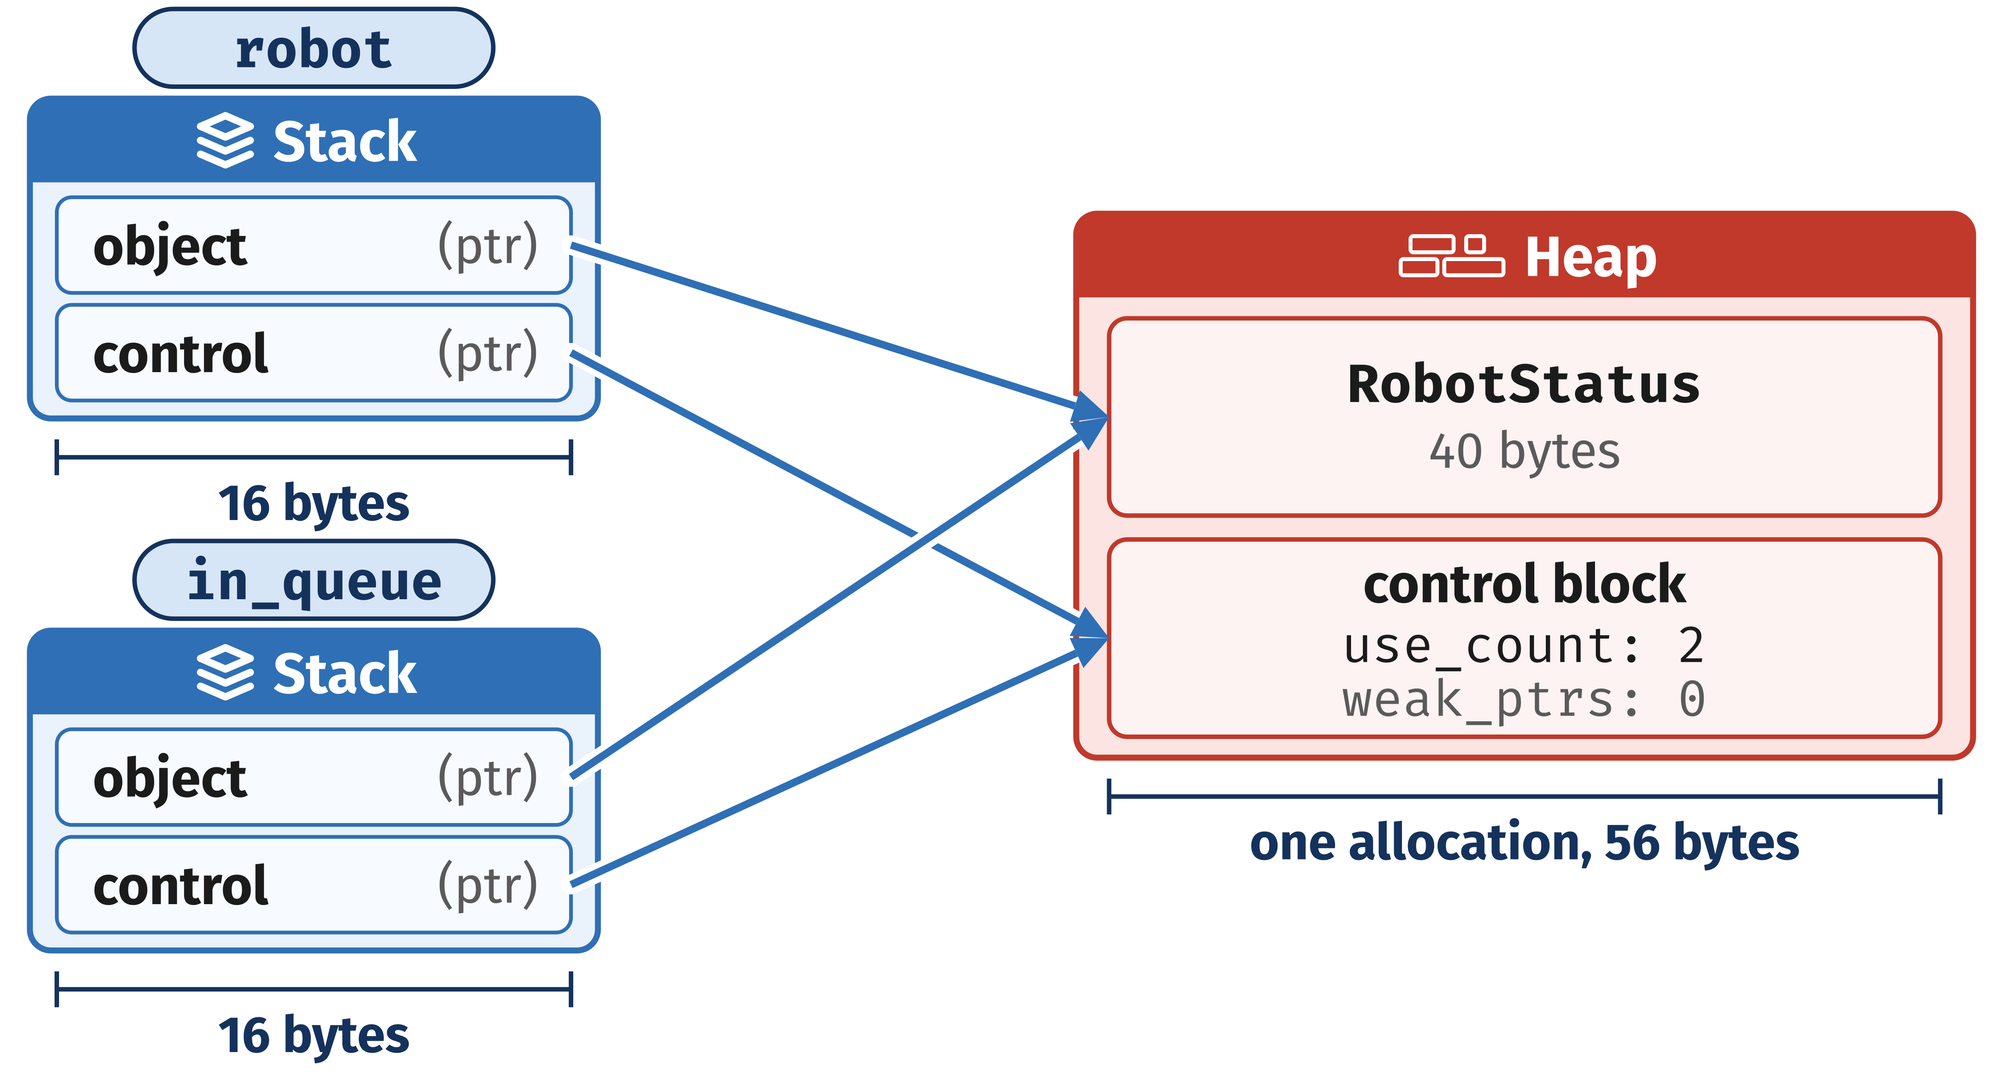
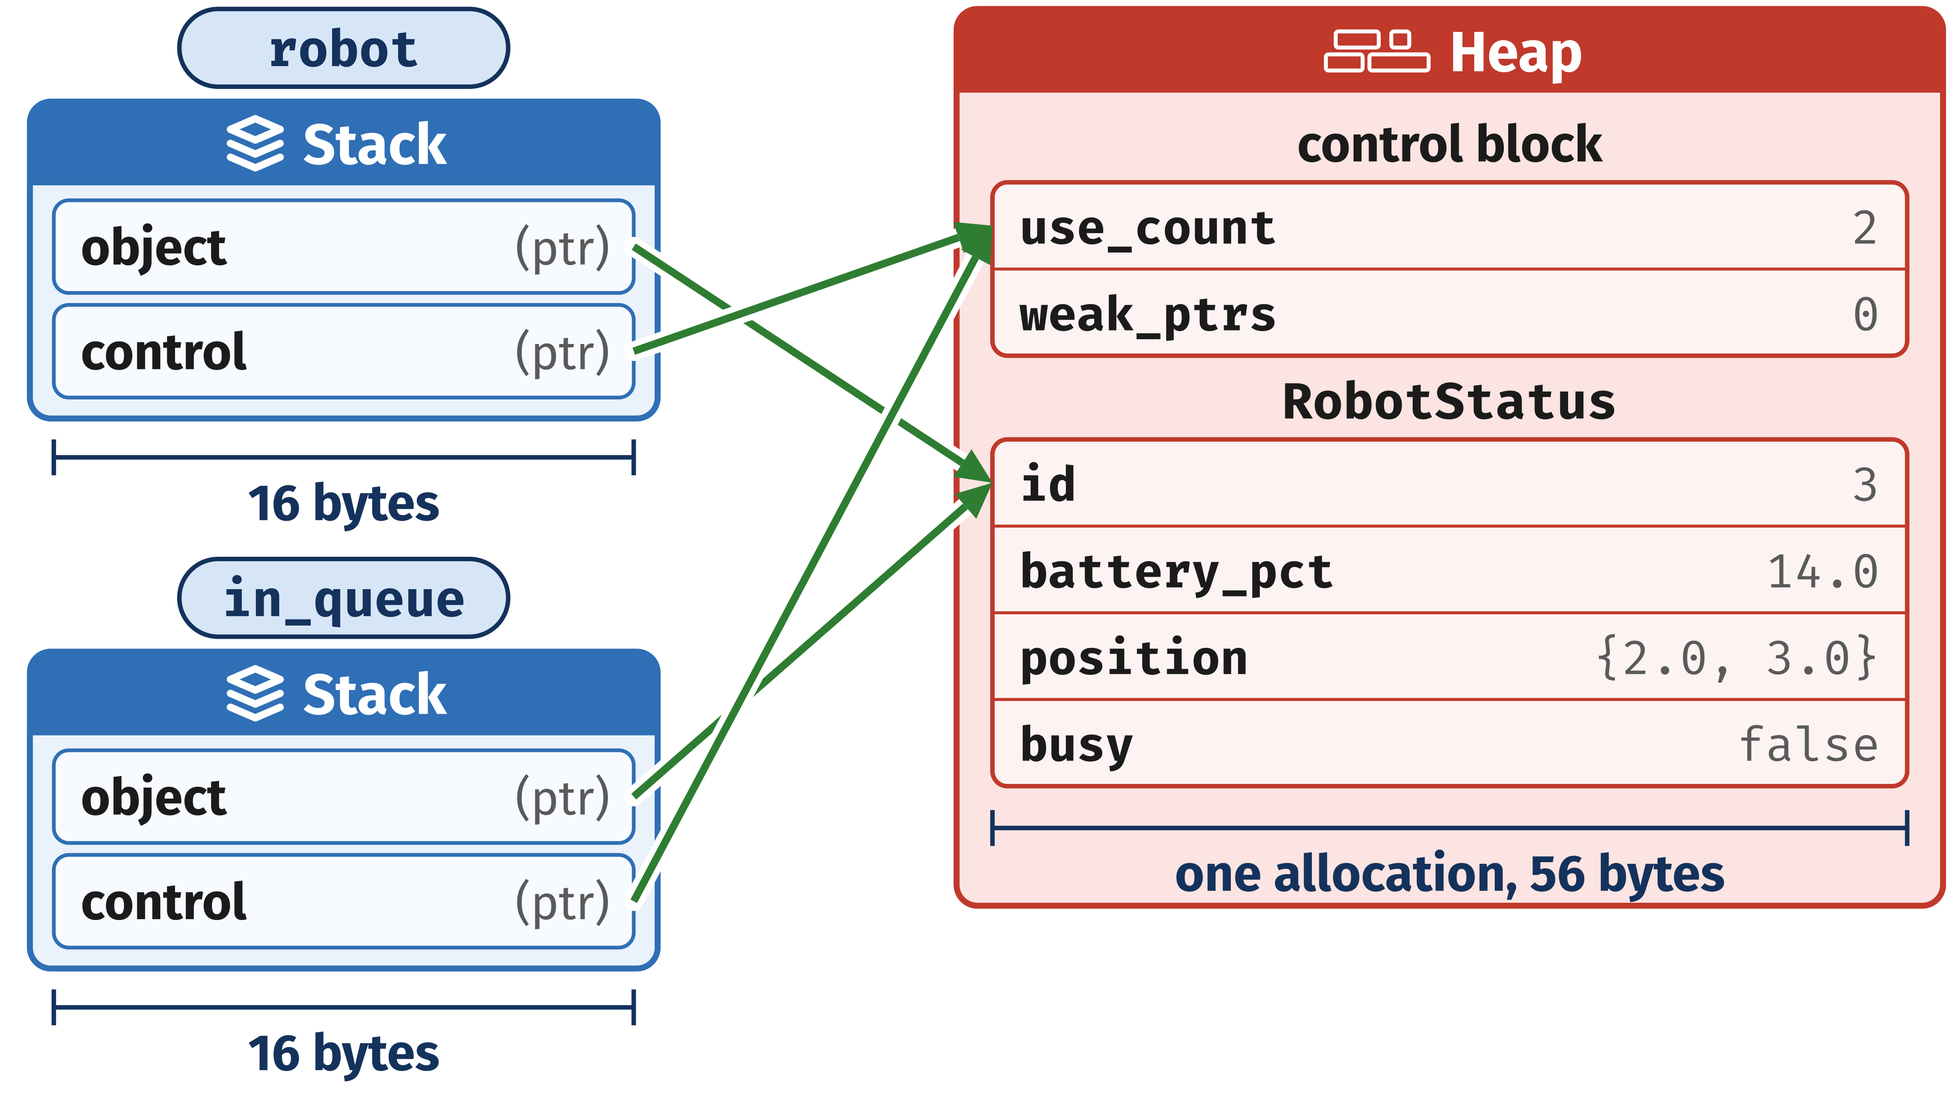
L7: shared_ptr figures with the full objects, as in the deck
The Control Block, the five steps of letting go and the two steps of the
cycle show each allocation's control block and the whole object; "robot
N" becomes the RobotStatus object with id N where the text is about
memory or ownership; slide numbers follow the deck.

diff --git a/docs/source/lectures/lecture7/l7_lecture.rst b/docs/source/lectures/lecture7/l7_lecture.rst
@@ -87,7 +87,7 @@ Code for This Lecture
 
    Code that does not compile is in the programs, commented out: uncomment it to get the slide's error.
 
-   A slide whose code leaks or has undefined behavior, such as slide 80, runs only when you ask for it by number: ``702run week7_playground 80``. A full run skips it.
+   A slide whose code leaks or has undefined behavior, such as slide 86, runs only when you ask for it by number: ``702run week7_playground 86``. A full run skips it.
 
 .. note::
 
@@ -1069,7 +1069,7 @@ Moving Ownership
 
    robot == nullptr: true, other.get() == where: true, other->id: 3
 
-- Line 2: ``robot.get()`` returns the address of the ``RobotStatus`` object that ``robot`` owns, as a plain ``RobotStatus*``. The owner does not change: ``where`` only points at the object.
+- Line 2: ``robot.get()`` returns a plain ``RobotStatus*`` to the heap resource ``robot`` owns, the ``RobotStatus`` object. The owner does not change: ``where`` only points at the object.
 - Line 3, the move constructor of `Move Semantics`_: ``other`` takes the pointer, and ``robot`` is left empty. ``other.get() == where``: the ``RobotStatus`` object did not move.
 - There is still exactly one owner, at every moment.
 - Unlike a moved-from ``std::vector``, a moved-from ``std::unique_ptr`` is guaranteed to be empty.
@@ -1318,7 +1318,7 @@ Robot 3 is down to 14 % (chosen for this example). It joins the charging queue, 
 
 1. **A second** ``std::unique_ptr``: does not compile. One owner only (`One Owner Only`_).
 2. **A copy of the robot**: now there are two robots. Charging one leaves the other at 14 %.
-3. **A** ``RobotStatus*`` **from** ``get()``: the queue does not own it. If the fleet removes robot 3, the queue points at freed memory (`Three Ways to Get It Wrong`_).
+3. **A** ``RobotStatus*`` **from** ``get()``: the queue does not own it. If the fleet deletes the ``RobotStatus`` object with id 3, the queue points at freed memory (`Three Ways to Get It Wrong`_).
 
 .. code-block:: cpp
 
@@ -1331,7 +1331,7 @@ The ``fleet`` here is the one from `A Fleet of Owners`_.
 
 .. note::
 
-   Both lists must own robot 3, and it must be deleted when the last of them lets go.
+   Both lists must own the ``RobotStatus`` object with id 3, and it must be deleted when the last of them lets go.
 
 .. _l7-shared-creating-one:
 
@@ -1364,13 +1364,14 @@ The Control Block
 """""""""""""""""
 
 .. figure:: /_static/images/l7/shared_ptr_memory.png
-   :alt: On the left, two blue boxes, one above the other, each with a stack icon and the word Stack, under name tags reading robot and in_queue. Each holds two fields, object and control, each marked ptr, and a measuring line under each box reads 16 bytes. On the right, one red box with a heap icon and the word Heap holds two blocks: a RobotStatus labeled 40 bytes, and below it a control block reading use_count: 2 and weak_ptrs: 0. A measuring line under it reads one allocation, 56 bytes. From each Stack box, a blue arrow runs from the object field to the left edge of the RobotStatus block, and another from the control field to the left edge of the control block.
+   :alt: On the left, two blue Stack boxes under name tags robot and in_queue, each holding two fields, object and control, each marked (ptr), with a measuring line of 16 bytes under each box. On the right, a red Heap box holds one allocation, with a measuring line reading one allocation, 56 bytes: at the top a control block with use_count 2 and weak_ptrs 0, then right below it the RobotStatus object with id 3, battery_pct 14.0, position {2.0, 3.0} and busy false. Green arrows run from each object field to the first row of the RobotStatus object, id, and from each control field to the first row of the control block.
+          "On the left, two blue Stack boxes under name tags robot and in_queue, each holding two fields, object and control, each marked (ptr), with a measuring line of 16 bytes under each box. On the right, a red Heap box holds one allocation, with a measuring line reading one allocation, 56 bytes: at the top a control block with use_count 2 and weak_ptrs 0, then right below it the RobotStatus object with id 3, battery_pct 14.0, position {2.0, 3.0} and busy false. Green arrows run from each object field to the first row of the RobotStatus object, id, and from each control field to the first row of the control block.
    :align: center
    :width: 100%
 
-   Two ``std::shared_ptr``\ s to one robot. Both point at the robot and at the control block that ``std::make_shared`` put in the same allocation.
+   Two ``std::shared_ptr``\ s, one allocation: the control block first, then the ``RobotStatus`` object.
 
-- A **control block** is the block a ``std::shared_ptr`` keeps beside its object: it holds the count of owners. A ``std::shared_ptr`` is two pointers, 16 bytes: to the robot and to its control block.
+- A **control block** is the block a ``std::shared_ptr`` keeps beside its object: it holds the count of owners. A ``std::shared_ptr`` is two pointers, 16 bytes: to the ``RobotStatus`` object and to its control block. ``std::make_shared`` puts both in one allocation, the control block first (libstdc++, measured).
 - ``std::make_shared``: one allocation of 56 bytes for both, measured. With ``new``: two, 40 and 24 bytes.
 - A copy adds 1 to the count; destroying a ``std::shared_ptr`` subtracts 1.
 
@@ -1421,17 +1422,65 @@ Three Ways to Let Go
 
 - An owner lets go when its scope ends (2, 3c), when it is assigned another pointer (3a), or when it calls ``reset()`` (3b). Each one subtracts 1 from the count.
 - In all three, ``robot`` is the last owner, so its ``RobotStatus`` object is deleted. C++20 (20.11.3.2 to 20.11.3.4): ``=`` and ``reset()`` swap with a temporary that is then destroyed, and destroying the last owner deletes the object.
-- Robot 4's id is chosen; its other members take their defaults. Run it: ``702run week7_playground 71``.
+- In 3a, id 4 is chosen; the other members take their defaults. Run it: ``702run week7_playground 71``.
 
-.. figure:: /_static/images/l7/shared_ptr_let_go.png
-   :alt: Five numbered states, each a blue Stack box beside a red Heap box. On the left, state 1: the Stack holds robot and in_queue, and an arrow from each points at robot 3 on the Heap, use_count: 2. Below it, state 2: in_queue is gray and dashed, gone, and only robot points at robot 3, use_count: 1. A dashed line separates three states on the right, 3a, 3b and 3c. In 3a, robot points at a new robot 4, use_count: 1, and robot 3 is gray, dashed and marked deleted. In 3b, robot holds null and robot 3 is deleted. In 3c, robot is gray and dashed, gone, and robot 3 is deleted.
+Step 1: Two Owners
+""""""""""""""""""
+
+.. figure:: /_static/images/l7/shared_ptr_let_go_1.png
+   :alt: On the left, two blue Stack boxes under name tags robot and in_queue, each holding two fields, object and control, each marked (ptr). On the right, a red Heap box holds one allocation, measured as 56 bytes: at the top a control block with use_count 2 and weak_ptrs 0, then right below it a RobotStatus object with id 3, battery_pct 14.0, position {2.0, 3.0} and busy false. Green arrows run from each object field to the first row of the RobotStatus object, id, and from each control field to the first row of the control block.
+     "On the left, two blue Stack boxes under name tags robot and in_queue, each holding two fields, object and control, each marked (ptr). On the right, a red Heap box holds one allocation, measured as 56 bytes: at the top a control block with use_count 2 and weak_ptrs 0, then right below it a RobotStatus object with id 3, battery_pct 14.0, position {2.0, 3.0} and busy false. Green arrows run from each object field to the first row of the RobotStatus object, id, and from each control field to the first row of the control block.
    :align: center
    :width: 100%
 
-   The three ways to let go, in memory. Gray and dashed: gone.
+- After line 1 of `Three Ways to Let Go`_: ``in_queue`` copies ``robot``. Both hold the same two pointers, so ``use_count`` is 2.
+- Each green arrow is one pointer of a ``std::shared_ptr``: ``object`` ends at the object's first member, ``control`` at the control block.
 
-- 1: ``in_queue`` copies ``robot``: two owners. 2: ``in_queue``'s scope ends: one owner left.
-- 3a, 3b and 3c are three separate runs, each from 2.
+Step 2: One Owner
+"""""""""""""""""
+
+.. figure:: /_static/images/l7/shared_ptr_let_go_2.png
+   :alt: On the left, a blue Stack box under the name tag robot holds two fields, object and control, each marked (ptr). Below it, in_queue is gray and dashed, marked scope ended, with no arrows. On the right, a red Heap box holds one allocation, measured as 56 bytes: a control block with use_count 1 and weak_ptrs 0, then the RobotStatus object with id 3, battery_pct 14.0, position {2.0, 3.0} and busy false. Green arrows run from robot's object field to the object's first row, id, and from its control field to the control block's first row.
+     "On the left, a blue Stack box under the name tag robot holds two fields, object and control, each marked (ptr). Below it, in_queue is gray and dashed, marked scope ended, with no arrows. On the right, a red Heap box holds one allocation, measured as 56 bytes: a control block with use_count 1 and weak_ptrs 0, then the RobotStatus object with id 3, battery_pct 14.0, position {2.0, 3.0} and busy false. Green arrows run from robot's object field to the object's first row, id, and from its control field to the control block's first row.
+   :align: center
+   :width: 100%
+
+- Line 2: ``in_queue``'s scope ends. Its destructor subtracts 1, so ``use_count`` is 1.
+- ``robot`` still owns the ``RobotStatus`` object, so nothing is freed.
+
+Step 3a: A New Object
+"""""""""""""""""""""
+
+.. figure:: /_static/images/l7/shared_ptr_let_go_3.png
+   :alt: On the left, a blue Stack box under the name tag robot holds two fields, object and control, each marked (ptr). Below it, in_queue is gray and dashed, marked scope ended. On the right, a red Heap box holds at the top a gray dashed block marked freed, 56 bytes: the first control block and object. Below it, a new allocation, measured as 56 bytes: a control block with use_count 1 and weak_ptrs 0, then a RobotStatus object with id 4, battery_pct 100.0, position {0.0, 0.0} and busy false. Green arrows run from robot's object field to the new object's first row, id, and from its control field to the new control block's first row.
+   :align: center
+   :width: 100%
+
+- 3a, 3b and 3c are separate runs, each from step 2.
+- 3a: ``std::make_shared<RobotStatus>(4)`` makes a second allocation. ``robot`` lets go of the first: its count drops to 0, so its object is destroyed and its 56 bytes freed.
+- The new object has id 4; its other members take their defaults.
+
+Step 3b: reset()
+""""""""""""""""
+
+.. figure:: /_static/images/l7/shared_ptr_let_go_4.png
+   :alt: On the left, a blue Stack box under the name tag robot holds two fields, object and control, each marked nullptr, with no arrows. Below it, in_queue is gray and dashed, marked scope ended. On the right, a red Heap box holds one gray dashed block marked freed, 56 bytes: the control block and object.
+   :align: center
+   :width: 100%
+
+- 3b: ``robot.reset()`` leaves both of ``robot``'s pointers ``nullptr``.
+- ``robot`` was the last owner, so the count drops to 0: the object is destroyed and the allocation freed.
+
+Step 3c: The Scope Ends
+"""""""""""""""""""""""
+
+.. figure:: /_static/images/l7/shared_ptr_let_go_5.png
+   :alt: On the left, robot and in_queue are both gray and dashed, marked scope ended, with no arrows. On the right, a red Heap box holds one gray dashed block marked freed, 56 bytes: the control block and object.
+   :align: center
+   :width: 100%
+
+- 3c: ``robot``'s scope ends, and its destructor runs.
+- ``robot`` was the last owner, so the count drops to 0: the object is destroyed and the allocation freed.
 
 Deletion by the Last Owner
 """"""""""""""""""""""""""
@@ -1441,8 +1490,8 @@ Deletion by the Last Owner
    fleet.push_back(std::make_shared<RobotStatus>(
        3, 14.0, Position{2.0, 3.0}, false));
    charging_queue.push_back(fleet[0]);
-   fleet.clear();           // robot 3 leaves the fleet, still in the queue
-   charging_queue.clear();  // the last owner: robot 3 is deleted here
+   fleet.clear();           // the fleet lets go; the queue still owns it
+   charging_queue.clear();  // the last owner deletes the RobotStatus
 
 .. code-block:: text
 
@@ -1450,8 +1499,8 @@ Deletion by the Last Owner
    after fleet.clear(): 1, robot 3 still there
    after charging_queue.clear(): no owner left
 
-- The queue keeps robot 3 alive after the fleet lets go. That is what the raw pointer of `A Robot in Two Lists`_ could not do.
-- Neither list deletes the robot itself. Whichever lets go last does, and nothing leaks: ``702run week7_playground 73`` ends with no LeakSanitizer report.
+- The queue keeps the ``RobotStatus`` object alive after the fleet lets go. That is what the raw pointer of `A Robot in Two Lists`_ could not do.
+- Neither list deletes the ``RobotStatus`` object itself. Whichever lets go last does, and nothing leaks: ``702run week7_playground 77`` ends with no LeakSanitizer report.
 
 .. _l7-shared-borrow:
 
@@ -1568,15 +1617,28 @@ A Cycle
    a->partner = b;  // a owns b
    b->partner = a;  // b owns a
 
-.. figure:: /_static/images/l7/cycle.png
-   :alt: Two panels separated by a thin line, tagged 1 and 2. In each, two red boxes with a heap icon, robot 1 and robot 2, side by side. Each box is one allocation: at the top a dashed part labeled control block that holds use_count, then the Robot object, a solid outline around two rows, status and partner. A green arrow runs from robot 1's partner row across the gap and into the left edge of robot 2's object, at its status row; another runs from robot 2's partner row down, under both boxes, and up into the bottom edge of robot 1's object. Panel 1: two small blue boxes with a stack icon and the word Stack, named a and b, above the robots. A green arrow from a goes around the left side of robot 1 into the left edge of its object, and one from b goes around the right side of robot 2 into the right edge of its object. Both control blocks read use_count: 2. Panel 2: no stack boxes; both control blocks read use_count: 1.
+- ``a->partner = b``: the ``Robot`` that ``a`` owns becomes an owner of the one ``b`` owns. ``b->partner = a`` does the reverse.
+
+Step 1: Two Owners Each
+"""""""""""""""""""""""
+
+.. figure:: /_static/images/l7/cycle_1.png
+   :alt: Two blue Stack boxes at the top, under name tags a and b, each holding two fields, object and control, each marked (ptr). Below, one red Heap box holds two allocations side by side, each measured as 72 bytes: a control block with use_count 2 and weak_ptrs 0, then a Robot object with rows status.id, status.battery_pct, status.position, status.busy, partner: object and partner: control. The left Robot holds 1, 82.5, {0.0, 0.0}, false; the right one 2, 35.0, {0.0, 0.0}, false. Green arrows run from a's fields to the left allocation, entering from the left: object to the Robot's first row, control to the control block's first row. Green arrows run from b's fields to the right allocation, entering from the right. The left Robot's partner rows send green arrows to the right allocation's Robot first row and control block, and the right Robot's partner rows send green arrows to the left allocation's, so the arrows cross between the two allocations.
    :align: center
    :width: 100%
 
-   Two robots that own each other. **1**: while ``a`` and ``b`` exist, each robot has two owners. **2**: ``a`` and ``b`` are gone, and each count stays at 1.
+- While ``a`` and ``b`` exist, each ``Robot`` has two owners: a variable on the stack and the other ``Robot``'s ``partner``. Each count is 2.
 
-- **1**: while ``a`` and ``b`` exist, each robot has two owners.
-- **2**: ``a`` and ``b`` are gone. Each count is 1, never 0: each robot keeps the other alive, and nothing outside can reach either.
+Step 2: Neither Is Deleted
+""""""""""""""""""""""""""
+
+.. figure:: /_static/images/l7/cycle_2.png
+   :alt: At the top, a and b are gray and dashed, marked scope ended, with no arrows. Below, one red Heap box holds two allocations side by side, each measured as 72 bytes: a control block with use_count 1 and weak_ptrs 0, then a Robot object with rows status.id, status.battery_pct, status.position, status.busy, partner: object and partner: control. The left Robot holds 1, 82.5, {0.0, 0.0}, false; the right one 2, 35.0, {0.0, 0.0}, false. The left Robot's partner rows send green arrows to the right allocation's Robot first row and control block, and the right Robot's partner rows send green arrows to the left allocation's, so each allocation is still owned by the other.
+   :align: center
+   :width: 100%
+
+- ``a`` and ``b`` are destroyed when their scope ends: each count drops to 1, never 0.
+- Each ``Robot`` keeps the other alive, so 2 allocations of 72 bytes leak (`The Cycle, Measured`_).
 
 The Cycle, Measured
 """""""""""""""""""
@@ -1597,7 +1659,7 @@ The Cycle, Measured
 
    SUMMARY: AddressSanitizer: 144 byte(s) leaked in 2 allocation(s).
 
-- ``702run week7_playground 80``. Both robots leak, one allocation each: lines 76 and 77 are the two ``std::make_shared`` calls.
+- ``702run week7_playground 86``. Both ``Robot`` objects leak, one allocation each: lines 76 and 77 are the two ``std::make_shared`` calls.
 - 72 bytes each: a ``Robot`` (40 for the status, 16 for the ``std::shared_ptr``) and its 16-byte control block, in one ``std::make_shared`` allocation.
 - An **indirect leak** is LeakSanitizer's name for leaked memory reachable only from other leaked memory. Both leaks here are indirect: each robot is reachable only from the other.
 
@@ -1618,7 +1680,7 @@ Breaking It
    a.use_count(): 1, b.use_count(): 1
 
 - A ``std::weak_ptr`` made from a ``std::shared_ptr`` does not add to the count.
-- When ``a`` and ``b`` go out of scope, both counts reach 0 and both robots are deleted. ``702run week7_playground 81``: no LeakSanitizer report.
+- When ``a`` and ``b`` go out of scope, both counts reach 0 and both ``Robot`` objects are deleted. ``702run week7_playground 87``: no LeakSanitizer report.
 
 .. note::
 
@@ -1644,7 +1706,7 @@ Breaking It
 
 - A ``std::weak_ptr`` has no ``->`` and no ``*``. ``lock()`` returns an owning ``std::shared_ptr``, or an empty one if the object is gone.
 - While ``robot`` exists, it is one more owner, so the ``RobotStatus`` object cannot be deleted in the middle of ``show``.
-- ``702run week7_playground 82``: ``robot 3: 14 %``, then, after the fleet lets go, ``the robot is gone``.
+- ``702run week7_playground 88``: ``robot 3: 14 %``, then, after the fleet lets go, ``the robot is gone``.
 
 See `A Dashboard of weak_ptr`_ under Further Reading.
 
@@ -1685,7 +1747,7 @@ Exercise 5: Use Counts
    b.reset();                                // 6
 
 - After each numbered line: how many ``std::shared_ptr``\ s own the robot, and is ``watch`` expired?
-- Check: ``702run week7_playground 84``.
+- Check: ``702run week7_playground 90``.
 
 Choosing a Pointer
 ------------------
@@ -1741,8 +1803,8 @@ Back to the Fleet
 
    The fleet with its smart pointers. **Filled diamond**: the only owner. **Open diamond**: one of several owners. **Arrow, no diamond**: looks without owning.
 
-- One ``std::vector`` holds one type: once robot 3 is shared, the fleet holds a ``std::shared_ptr`` for every robot (:ref:`l7-shared-creating-one`).
-- Robots 1 and 2 still have one owner each, through that ``std::shared_ptr``.
+- One ``std::vector`` holds one type: once the ``RobotStatus`` object with id 3 is shared, the fleet holds a ``std::shared_ptr`` for every robot (:ref:`l7-shared-creating-one`).
+- The ``RobotStatus`` objects with ids 1 and 2 still have one owner each, through that ``std::shared_ptr``.
 
 Summary
 -------
@@ -2001,7 +2063,7 @@ Testing for Empty
    first.swap(second);  // the same as std::swap(first, second)
    // first->id: 4, second->id: 3, second.get() == robot_3: true
 
-- ``swap`` exchanges the two stored pointers. No robot is created, copied or deleted: robot 3 is at the same address, now owned by ``second``.
+- ``swap`` exchanges the two stored pointers. No ``RobotStatus`` object is created, copied or deleted: the one with id 3 stays at the same address, now owned by ``second``.
 - ``std::shared_ptr`` has the same ``swap``.
 
 .. note::
@@ -2040,7 +2102,7 @@ A Dashboard of ``weak_ptr``
    for (const auto& robot : fleet) {  // robots 1, 2, 3
      shown.push_back(robot);  // watches, does not own
    }
-   fleet.erase(fleet.begin() + 1);  // robot 2 is deleted
+   fleet.erase(fleet.begin() + 1);  // deletes the RobotStatus with id 2
    for (const auto& watched : shown) {
      if (auto robot{watched.lock()}) {
        std::cout << "  robot " << robot->id << ": "
